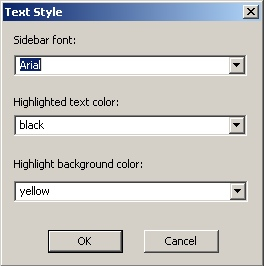
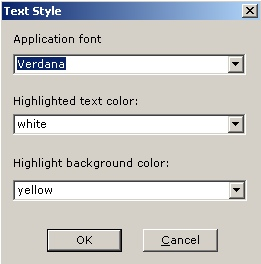
wording change

Changed region(s): [[0.0, 0.0, 1.0, 1.0], [0.8582, 0.4242, 0.9502, 0.5152]]

diff --git a/trunk/amis/src/DefaultLangpack/help-unrecorded/amishelp.html b/trunk/amis/src/DefaultLangpack/help-unrecorded/amishelp.html
@@ -9,21 +9,19 @@
 <body>
 <div class="header">
 <h1>AMIS User Guide</h1>
-<img src="./img/amis.gif" height="110" width="110" alt="AMIS logo"/>   
-<img src="./img/dfa-log.jpg" class="rect" alt="DAISY-for-All project logo"/>   
-<img src="./img/Nipponfoundation.gif" height="73" width="300"  class="rect" alt="Nippon Foundation logo"/>
-<img src="./img/daisy.jpg" height="110" class="dclogo" alt="DAISY Consortium logo"/>
 </div>
 
 <p>This document gives a brief introduction to AMIS, including its features, requirements, and options.  For a list of all commands and shortcut keys, please read the Keyboard Shortcuts document, found under the Help menu.</p>
 
 <h2>What is AMIS?</h2>
+<div><span class="image"><img src="./img/amis.gif" height="110" width="110" alt="AMIS logo"/></span></div>
 
 <p>AMIS stands for <em>A</em>daptive <em>M</em>ultimedia <em>I</em>nformation <em>S</em>ystem.</p>
 
 <p>AMIS is a software program that you can use to read DAISY books. It is self-voicing, meaning that no specialized screen-reading software is needed in order for it to be used by visually impaired people. AMIS is open source software and is provided free of charge.  It has been translated into dozens of languages.  Go to <a href="http://amisproject.org">http://amisproject.org</a> to download language packs.</p>
 
 <h2>What is DAISY?</h2>
+<div><span class="image"><img src="./img/daisy.jpg" height="110" class="dclogo" alt="DAISY Consortium logo"/></span></div>
 
 <p>DAISY stands for <em>D</em>igital <em>A</em>ccessible <em>I</em>nformation <em>SY</em>stem.  DAISY books are fully accessible digital talking books. Common features of books, such as sections, pages, footnotes, sidebars, and bookmarks are represented in a way that allows users to quickly navigate using them.</p>
 
@@ -76,14 +74,14 @@
 <p class="caption">The toolbar</p>
 </div>
 
-<p>The sidebar contains one or more tabbed lists, depending on what the book contains.  The first list is always a hierarchical list of sections.  The second list contains page numbers (if the book has pages).  The subsequent lists contain special items such as footnotes or figures (again, if the book contains these items), with each item type appearing in its own list.</p>
+<p>The navigation window contains one or more tabbed lists, depending on what the book contains.  The first list is always a hierarchical list of sections.  The second list contains page numbers (if the book has pages).  The subsequent lists contain special items such as footnotes or figures (again, if the book contains these items), with each item type appearing in its own list.</p>
 
 <div class="example">
-<img src="./img/amis-sidebar.jpg" alt="the sidebar of AMIS"/>
-<p class="caption">The sidebar</p>
+<img src="./img/amis-nav.jpg" alt="the navigation window of AMIS"/>
+<p class="caption">The navigation window</p>
 </div>
 
-<p>The basic view has two major pieces: a toolbar along the bottom of the screen and a content window in the center of the screen.  The toolbar has four large buttons:  <span class="command">go to the previous phrase</span>, <span class="command">play/pause</span>, <span class="command">go to the next phrase</span>, <span class="command">switch back to default view mode</span>. There is no menu or sidebar in basic view mode.</p>
+<p>The basic view has two major pieces: a toolbar along the bottom of the screen and a content window in the center of the screen.  The toolbar has four large buttons:  <span class="command">go to the previous phrase</span>, <span class="command">play/pause</span>, <span class="command">go to the next phrase</span>, <span class="command">switch back to default view mode</span>. There is no menu or navigation window in basic view mode.</p>
 
 <div class="example">
 <img src="./img/amis-basic-view.jpg" alt="basic view for AMIS"/>
@@ -128,9 +126,9 @@
 <li>Search for text</li>
 </ul>
 
-<h3>Using the navigation sidebar</h3>
+<h3>Using the navigation window</h3>
 
-<p>Use the items in the sidebar to browse the structure of a book.</p>
+<p>Use the items in the navigation window to browse the structure of a book.</p>
 
 <ul>
 <li>Hierarchical view of sections</li>
@@ -186,11 +184,11 @@
 
 <ul>
 <li>Use basic or default view mode</li>
-<li>Show/hide the navigation sidebar</li>
-<li>Move the navigation sidebar around the screen</li>
+<li>Show/hide the navigation window</li>
+<li>Move the navigation window around the screen</li>
 <li>Change the style of the page</li>
 <li>Make the font bigger</li>
-<li>Adjust highlight colors and change the sidebar font through the Text Style dialog</li>
+<li>Adjust highlight colors and change the application font through the Text Style dialog</li>
 </ul>
 
 <h3>Setting preferences</h3>
@@ -218,7 +216,7 @@
 <p>The following settings are accessed via the Text Style dialog under the View menu.</p>
 
 <ul>
-<li>Select a font for the text in the navigation sidebar of AMIS</li>
+<li>Select a font for AMIS itself</li>
 <li>Select foreground and background colors for the text highlight used during playback</li>
 </ul>
 <div class="example">
